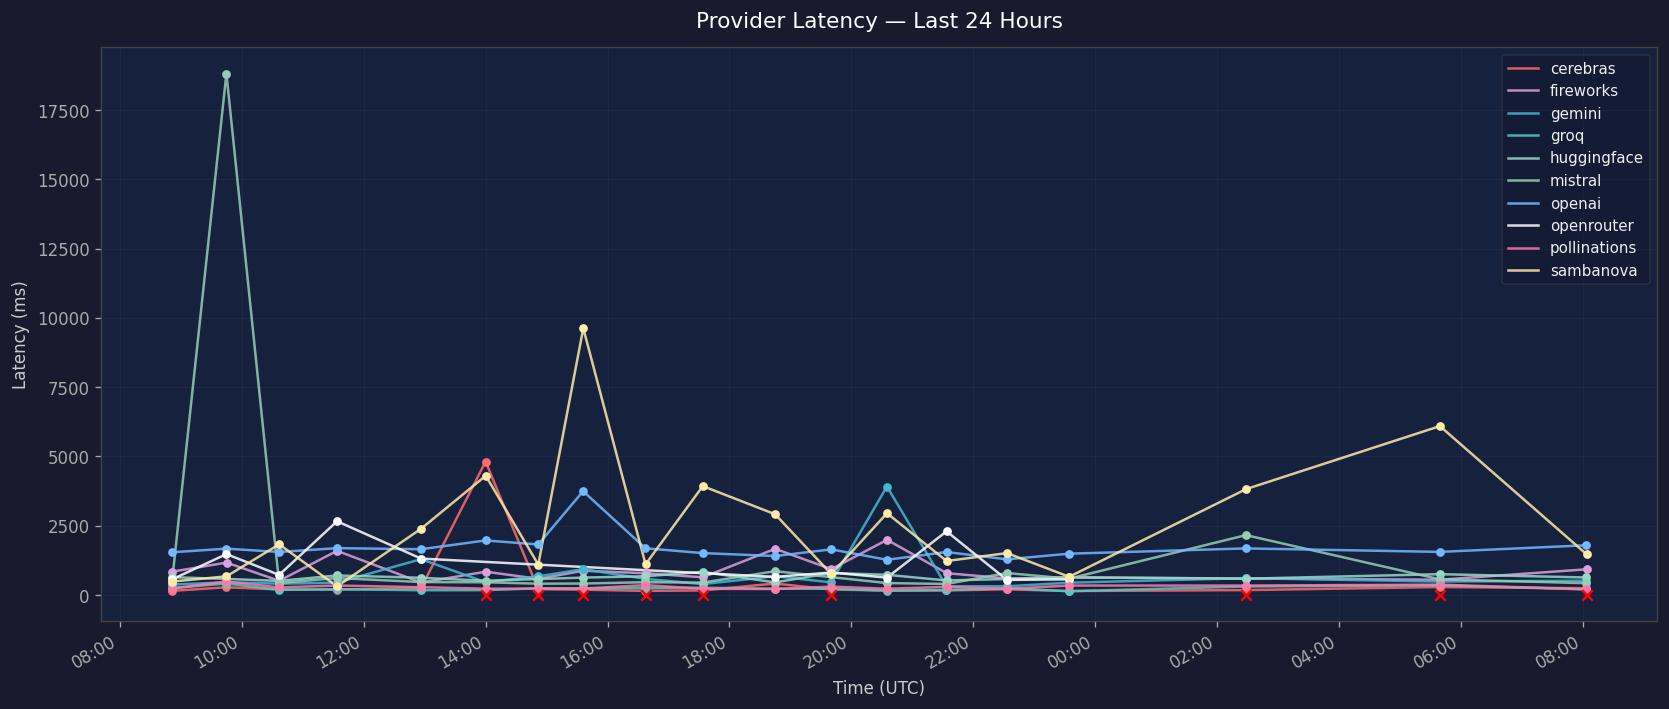
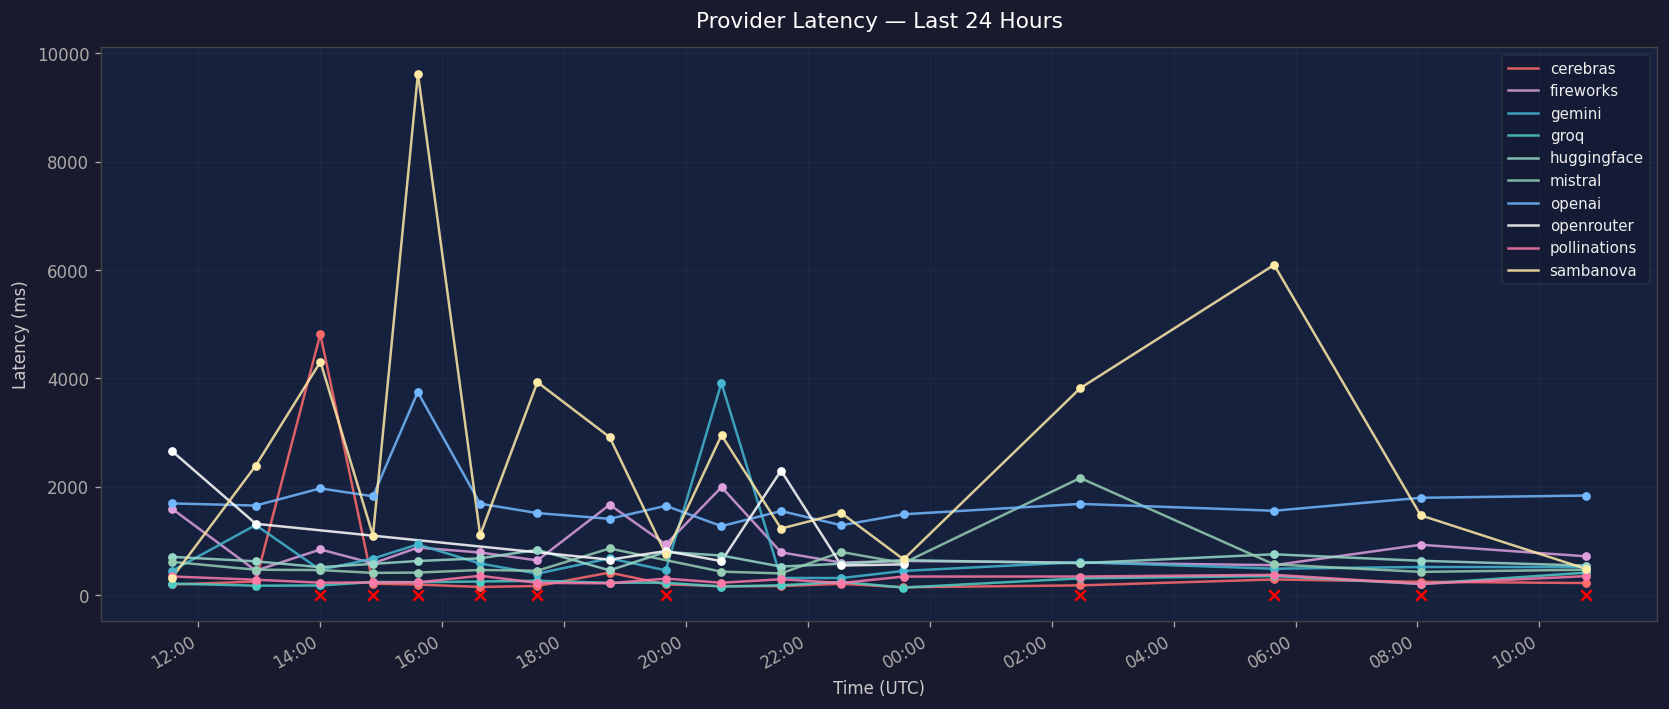
chore: hourly health check 2026-04-20 10:46 UTC

diff --git a/README.md b/README.md
@@ -441,20 +441,20 @@ Claude's default behaviour for that window. The offloading rules in this repo's
 <!-- HEALTH_START -->
 ## Provider Health
 
-*Last check: 2026-04-20 08:03 UTC — auto-generated by health-check.yml*
+*Last check: 2026-04-20 10:46 UTC — auto-generated by health-check.yml*
 
 | Provider | Status | Last Latency | Avg Latency (24h) | Uptime (24h) |
 |---|---|---|---|---|
-| **cerebras** | OK | 244ms | 452ms | 100% |
-| **fireworks** | WARN | 928ms | 893ms | 0% |
-| **gemini** | OK | 517ms | 724ms | 100% |
-| **groq** | OK | 204ms | 233ms | 100% |
-| **huggingface** | OK | 632ms | 630ms | 100% |
-| **mistral** | OK | 427ms | 1620ms | 95% |
-| **openai** | OK | 1795ms | 1712ms | 100% |
-| **openrouter** | FAIL | — | 1112ms | 58% |
-| **pollinations** | OK | 205ms | 284ms | 100% |
-| **sambanova** | OK | 1471ms | 2482ms | 100% |
+| **cerebras** | OK | 221ms | 482ms | 100% |
+| **fireworks** | WARN | 714ms | 892ms | 0% |
+| **gemini** | OK | 516ms | 766ms | 100% |
+| **groq** | OK | 413ms | 234ms | 100% |
+| **huggingface** | OK | 543ms | 635ms | 100% |
+| **mistral** | OK | 467ms | 622ms | 94% |
+| **openai** | OK | 1837ms | 1741ms | 100% |
+| **openrouter** | FAIL | — | 1184ms | 47% |
+| **pollinations** | OK | 348ms | 280ms | 100% |
+| **sambanova** | OK | 480ms | 2627ms | 100% |
 
 ### Latency over time (last 24h)
 
